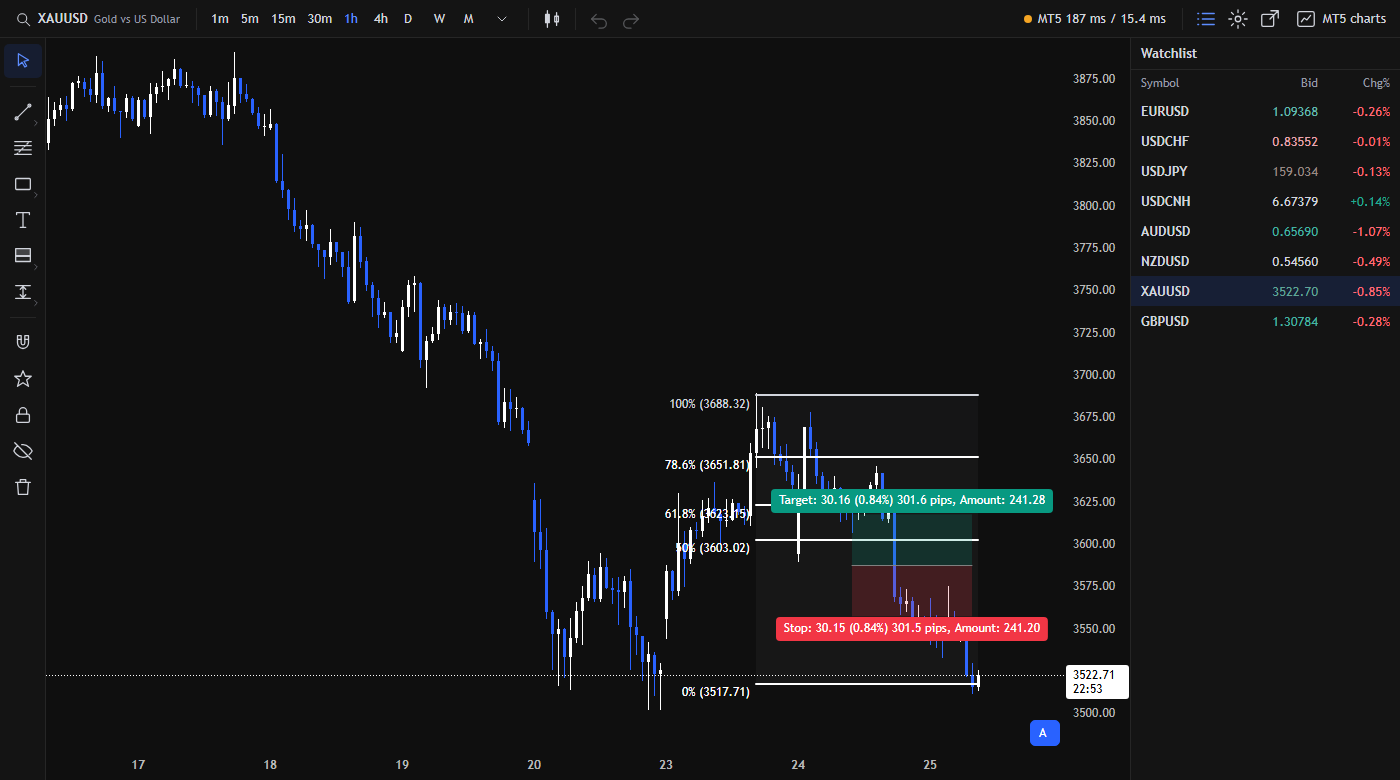
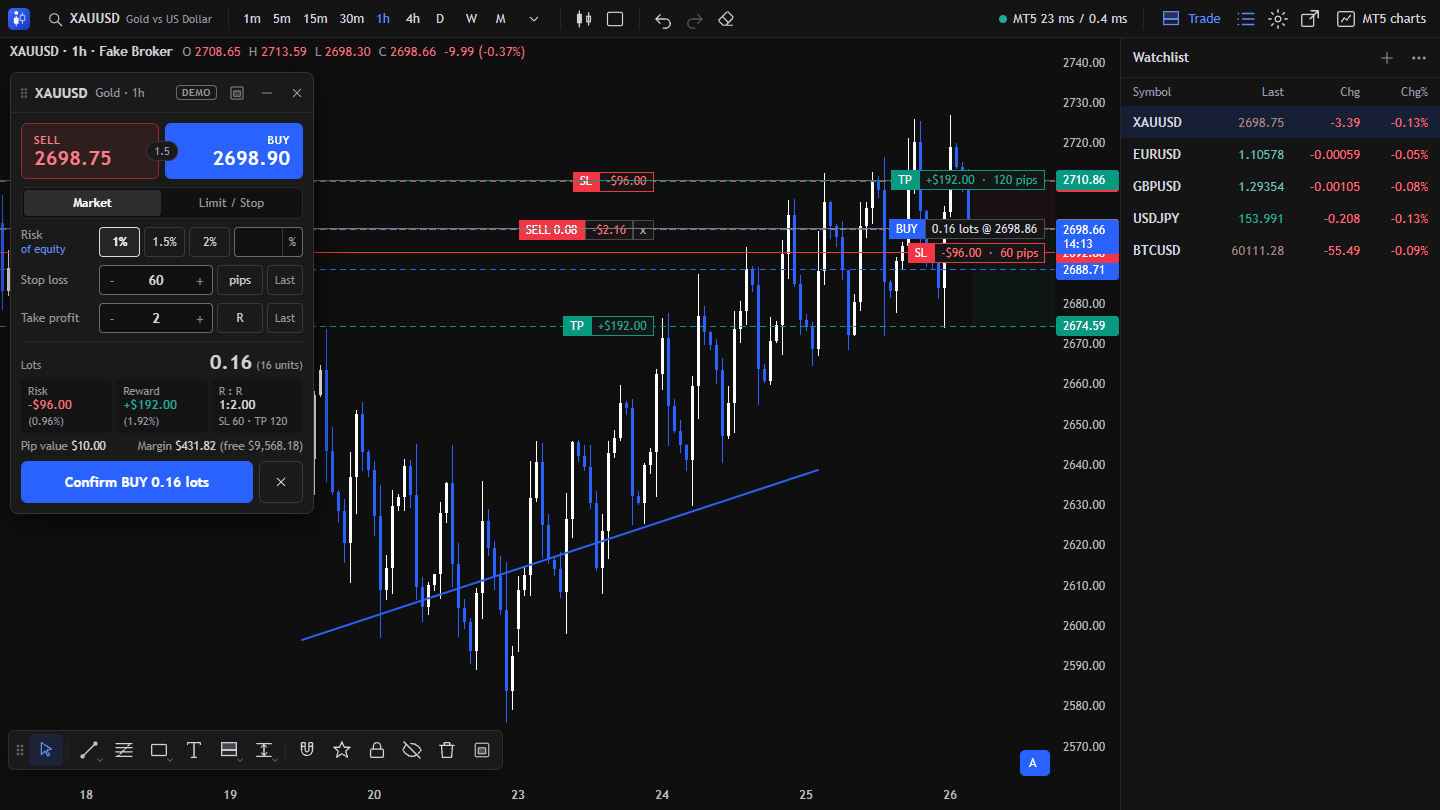
docs: refresh the screenshots and describe the latest InnaChart changes
- New InnaChart screenshots (one chart with the ticket and trades, and a
  split into four), made with the stand-in feed: no account data.
- The guide describes the trade zones, pending lines and Clear button.
- CONTRIBUTING sets the commit message rules (Conventional Commits).
- CHANGELOG entries for the changes since the last push.

diff --git a/docs/innachart.md b/docs/innachart.md
@@ -46,6 +46,7 @@ From then on, opening MetaTrader 5 is enough: the service starts with it, and th
 | Watchlist | The list icon at the top right. It starts with MetaTrader 5's Market Watch and is then your own: **+** adds a symbol, the **x** on a row (or Delete, or a right-click) removes it, drag a row to move it, the **...** menu adds sections. Click a column's title to sort by it. Click a row, or use the arrow keys, to open its chart. Drag the panel's left edge to make it wider or narrower |
 | Hide the screen (MetaTrader 5's charts show) | The **MT5** button at the top right; `Ctrl+Alt+M` or the tray icon shows it again |
 | A window of its own (to move it to another monitor, or maximise it) | The window button next to **MT5**, or the tray menu's **Separate window**. The same button glues it onto MetaTrader 5 again. The choice is remembered |
+| Clear the chart | The eraser at the top: the drawings on this chart, or on every chart on the screen. `Ctrl+Z` brings them back |
 | Several charts at once | The layout button next to the chart type: one chart, two side by side, two one over the other, three (a big one and two beside it) or four (two by two). See [Several charts](#several-charts) |
 
 ### Several charts
@@ -53,6 +54,8 @@ From then on, opening MetaTrader 5 is enough: the service starts with it, and th
 Split the screen with the layout button next to the chart type at the top. Each chart has its own
 symbol and timeframe; a chart added to the split shows the symbol of the one you work on, on the
 next timeframe up (M15, then H1, H4, D1...), so a top-down look takes one click.
+
+![Four charts of XAUUSD, H1 to W1, with the same drawings and the open trade on each](images/innachart-split.png)
 
 - Click a chart to work on it: it gets a blue edge, and the symbol and timeframe buttons, the
   watchlist, the order ticket and the drawing tools work on it.
@@ -150,7 +153,10 @@ The **+** keeps it open.
 follows from where the entry is (a buy below the price is a Buy Limit, above it a Buy Stop).
 
 **Open trades** of the chart's symbol show as dashed lines with their type, lots and profit, and the
-money you lose at the stop loss and make at the take profit:
+money you lose at the stop loss and make at the take profit, over a faint red zone (entry to stop
+loss) and a faint green one (entry to take profit), like a long or short position drawing. A
+**pending order** shows its entry line and price; its label, stop loss and take profit show while
+the mouse is on its line (a click on its label keeps them):
 
 - drag a stop loss or take profit line (or a pending order's entry) to change it: a card shows the
   new levels and the money at each, from MetaTrader 5, and changes nothing until **Confirm change**;

diff --git a/README.md b/README.md
@@ -3,10 +3,15 @@
 [![checks](https://github.com/deaguss/metatrade-5-modern-style/actions/workflows/checks.yml/badge.svg)](https://github.com/deaguss/metatrade-5-modern-style/actions/workflows/checks.yml)
 [![licence: MIT](https://img.shields.io/badge/licence-MIT-blue.svg)](LICENSE)
 
-A clean, modern look for **MetaTrader 5 desktop** (Windows), and a risk-based order ticket that sits
-right on your chart.
+A clean, modern look for **MetaTrader 5 desktop** (Windows): **InnaChart**, a modern chart that opens
+on MetaTrader 5 with MetaTrader 5's candles, free drawing tools and an order ticket, and a risk-based order
+ticket that sits right on MetaTrader 5's own charts.
 
-![The ActionInna order ticket previewing a BUY on the chart](docs/images/ticket.png)
+![InnaChart: the chart, the order ticket previewing a BUY, an open position and a pending order](docs/images/innachart.png)
+
+![InnaChart split into four charts of one symbol, H1 to W1, sharing their drawings](docs/images/innachart-split.png)
+
+![The ActionInna order ticket previewing a BUY on a MetaTrader 5 chart](docs/images/ticket.png)
 
 ## What you get
 
@@ -18,11 +23,12 @@ right on your chart.
 - **ModernStyle script**. One click gives your chart a modern look: a near-black background, white
   and blue candles, no grid, and a price scale you can drag. It saves the look as a template, so any
   chart can use it.
-- <img src="docs/images/innachart-logo.svg" alt="" height="20"> **InnaChart**. A roomy, modern chart that sits right on MetaTrader 5's chart area and opens
-  with it, with MetaTrader 5's own candles, one chart or up to four: drawing tools with a floating
-  toolbar, long and short positions that work out your lots, your own drawing and chart templates,
-  and a network indicator in milliseconds. Trade from it too: its order ticket goes through the ActionInna EA, with the same
-  preview and Confirm. See [docs/innachart.md](docs/innachart.md).
+- <img src="docs/images/innachart-logo.svg" alt="" height="20"> **InnaChart**. A roomy, modern chart that sits right on MetaTrader 5's
+  chart area and opens with it, with MetaTrader 5's own candles, one chart or up to four: drawing
+  tools with a floating toolbar, long and short positions that work out your lots, your own drawing
+  and chart templates, and a network indicator in milliseconds. Trade from it too: its order ticket
+  goes through the ActionInna EA, with the same preview and Confirm. See
+  [docs/innachart.md](docs/innachart.md).
 - **A tidy window layout**. A short guide to a clean MetaTrader 5 window, and to the drawing tools
   MetaTrader 5 already has, free and without limits: [docs/layout.md](docs/layout.md).
 

diff --git a/CHANGELOG.md b/CHANGELOG.md
@@ -49,12 +49,17 @@ All notable changes to MetaTrader 5 Modern Style are recorded here. The format f
   maximized, so the page showed cut, with its title bar and a grey area around it).
 - The watchlist shows a price for a symbol with no tick yet (its last bar's close) and its change once
   MetaTrader 5 has loaded yesterday's bar, instead of "-".
-- A busy chart stays readable: a pending order shows its faint entry line only until the mouse is on
+- Open trades sit over a faint red zone (entry to stop loss) and a faint green one (entry to take
+  profit), like a long or short position drawing; a pending order's entry line and price always show.
+- A **Clear** button (the eraser at the top) removes the drawings on the chart, or on every chart on
+  the screen; `Ctrl+Z` brings them back.
+- A busy chart stays readable: a pending order shows its entry line and price only until the mouse is on
   it (or its label is clicked), and a long or short position drawing shows its stats while the mouse is
   on it or it is selected (or always, with its **Always show stats** setting).
 - The watchlist drops the Chg column, then Chg%, as it gets narrower, so no column is cut off.
 - The chart no longer flickers while a panel beside it is dragged, nor the glued screen while
   MetaTrader 5 is moved.
+- InnaChart as a window of its own stays maximized after a restart, if it was maximized.
 - A second InnaChart started for tests (`--no-glue`) no longer closes the screen of the one already
   running, and the tray menu opens a closed screen again at the first click.
 - InnaChart no longer closes its screen while MetaTrader 5 shows a login window or another window in

diff --git a/CONTRIBUTING.md b/CONTRIBUTING.md
@@ -92,6 +92,24 @@ suite in `Scenarios.mqh`. A change to how the ticket or the chart lines behave n
 - Colours: every text pair 4.5:1, every control edge 3:1, in both themes. Record new colours in
   `DESIGN.md` with their measured contrast.
 
+## Commits
+
+Commit messages follow [Conventional Commits](https://www.conventionalcommits.org/):
+
+```
+feat(innachart): add a Clear chart button
+
+Why the change, wrapped at 72 characters: what it does for the trader,
+and anything a reviewer should know.
+```
+
+- The type: `feat` (something new for the trader), `fix` (a bug), `docs`, `test`, `refactor`,
+  `perf`, `build` (scripts, CI), `chore`.
+- The scope, when it helps: `innachart` (the screen and InnaChart.exe), `ea` (ActionInna),
+  `service` (the InnaChart service), `ticket`.
+- The subject: imperative, lower case after the colon, no full stop, 72 characters at most.
+- One change per commit; the tests pass at every commit.
+
 ## Pull requests
 
 - One change per pull request, with an entry under "Unreleased" in `CHANGELOG.md`.
